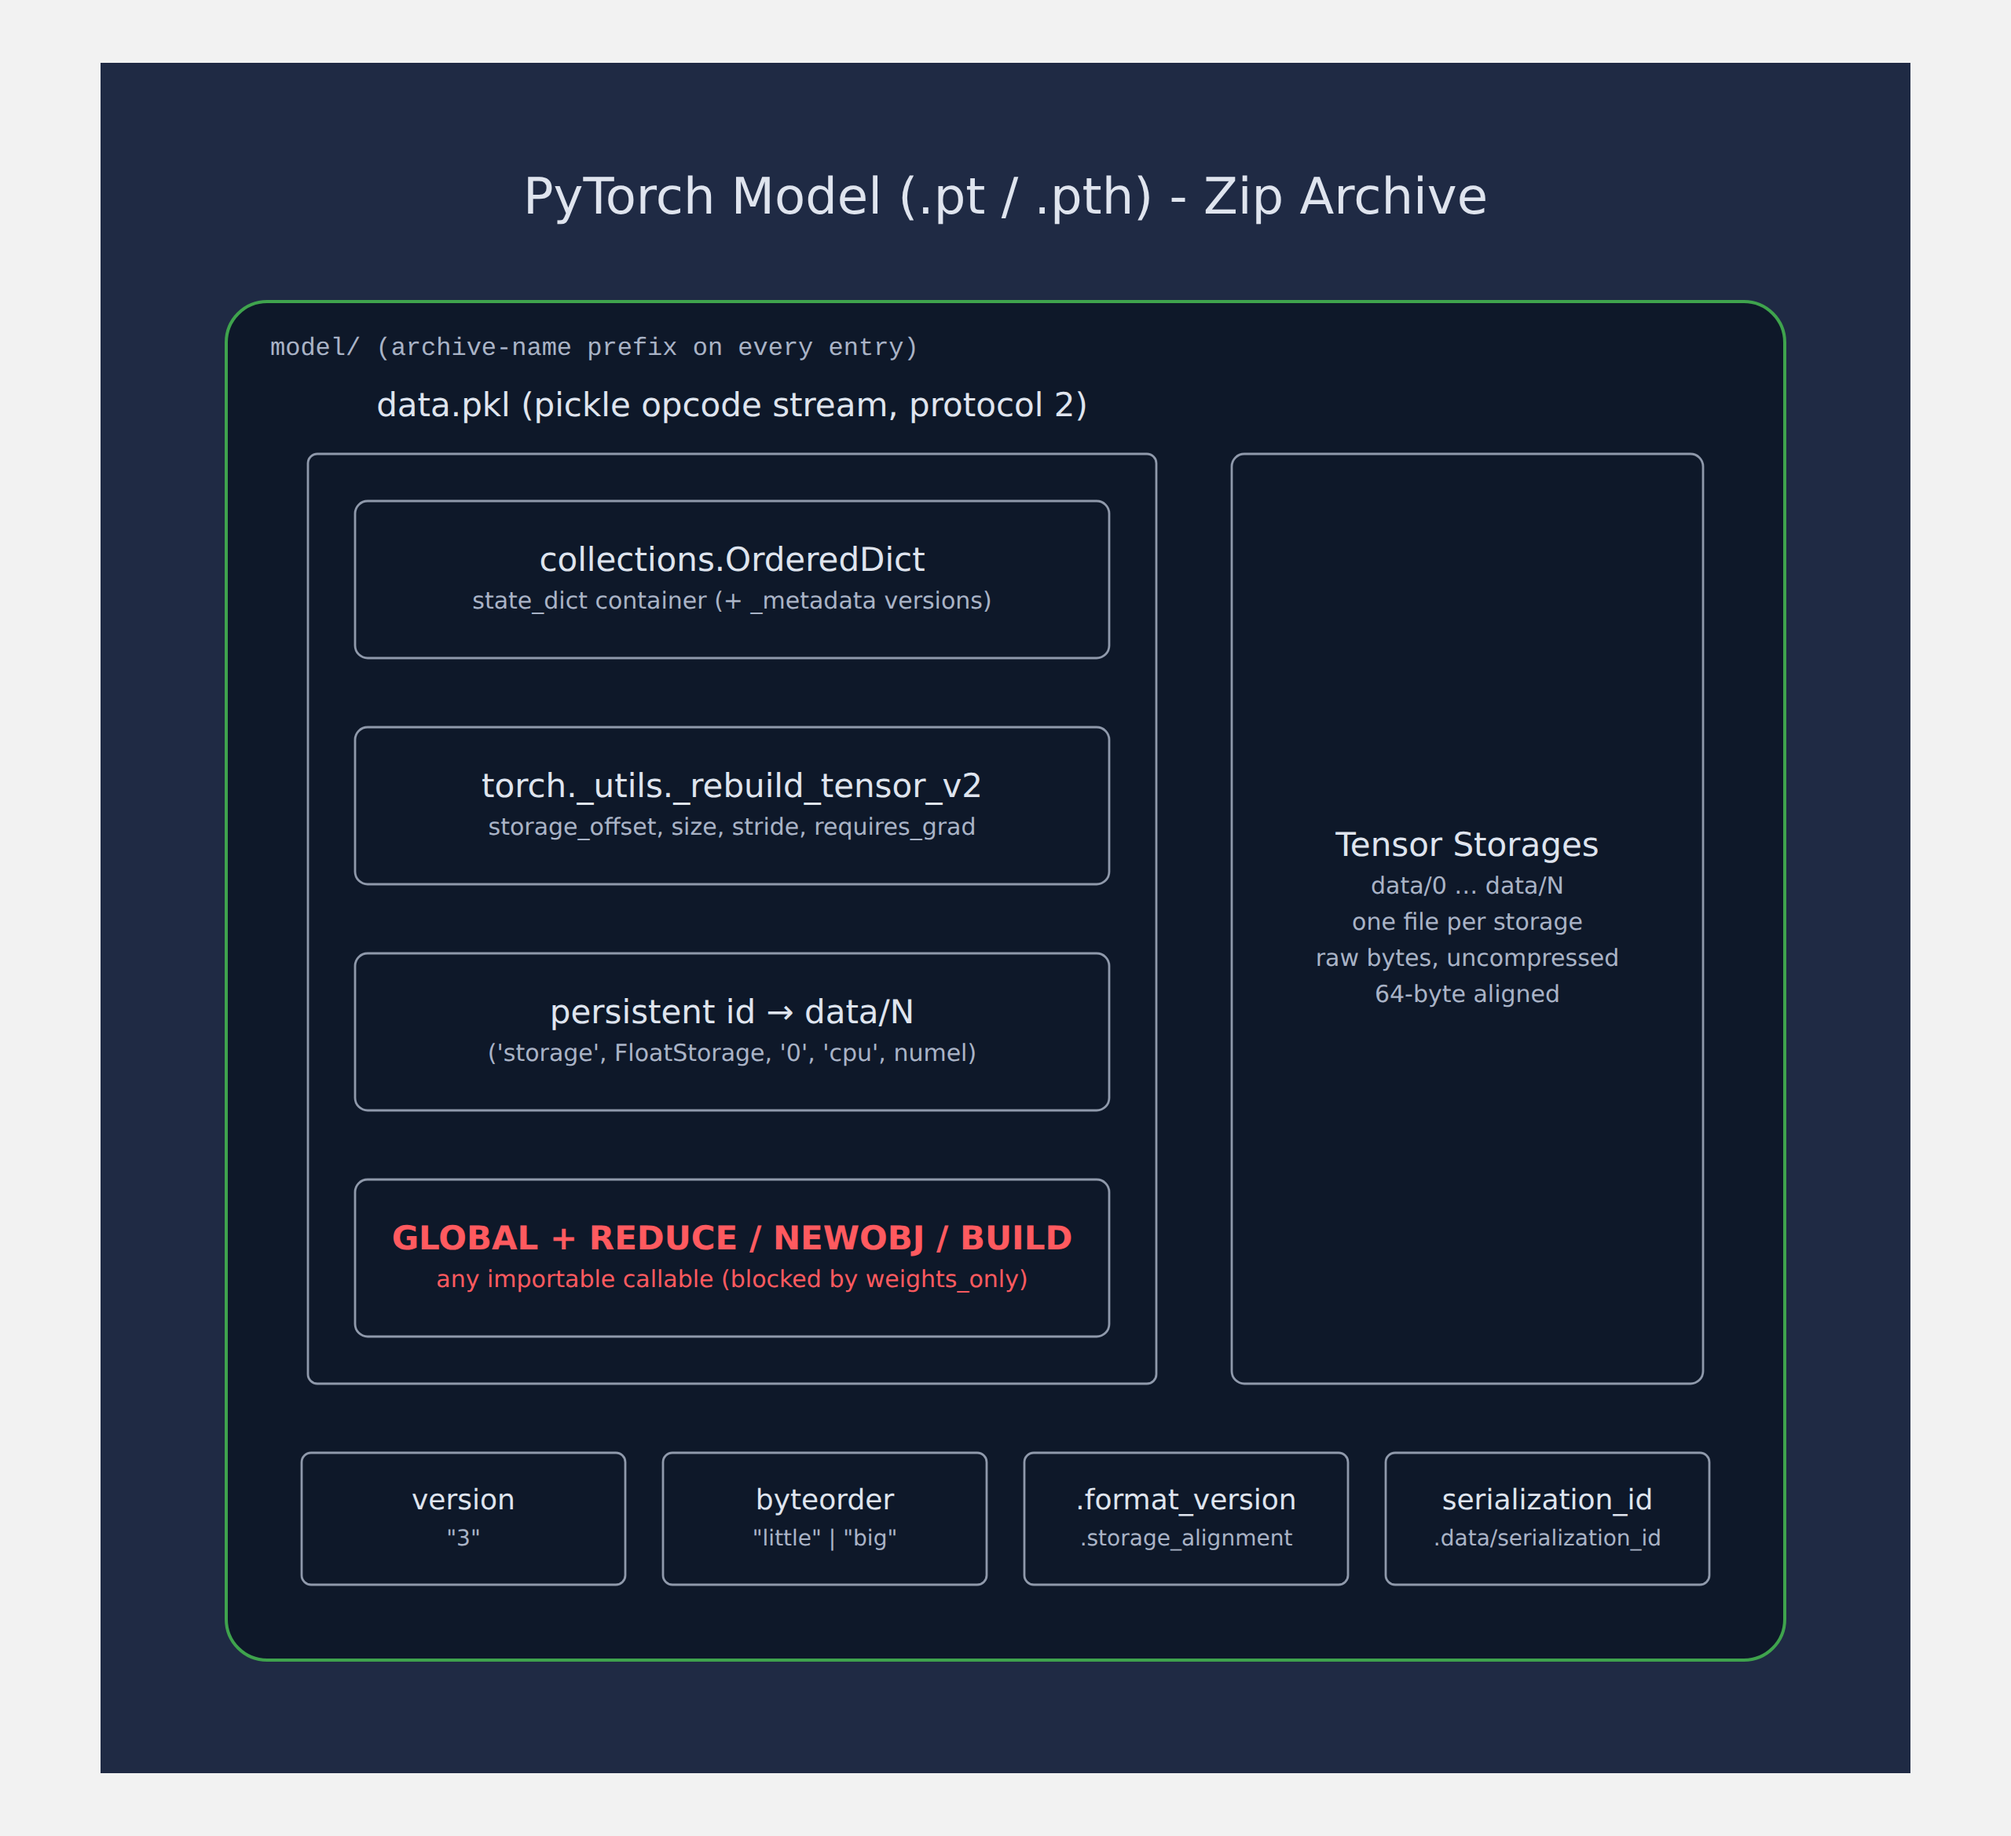
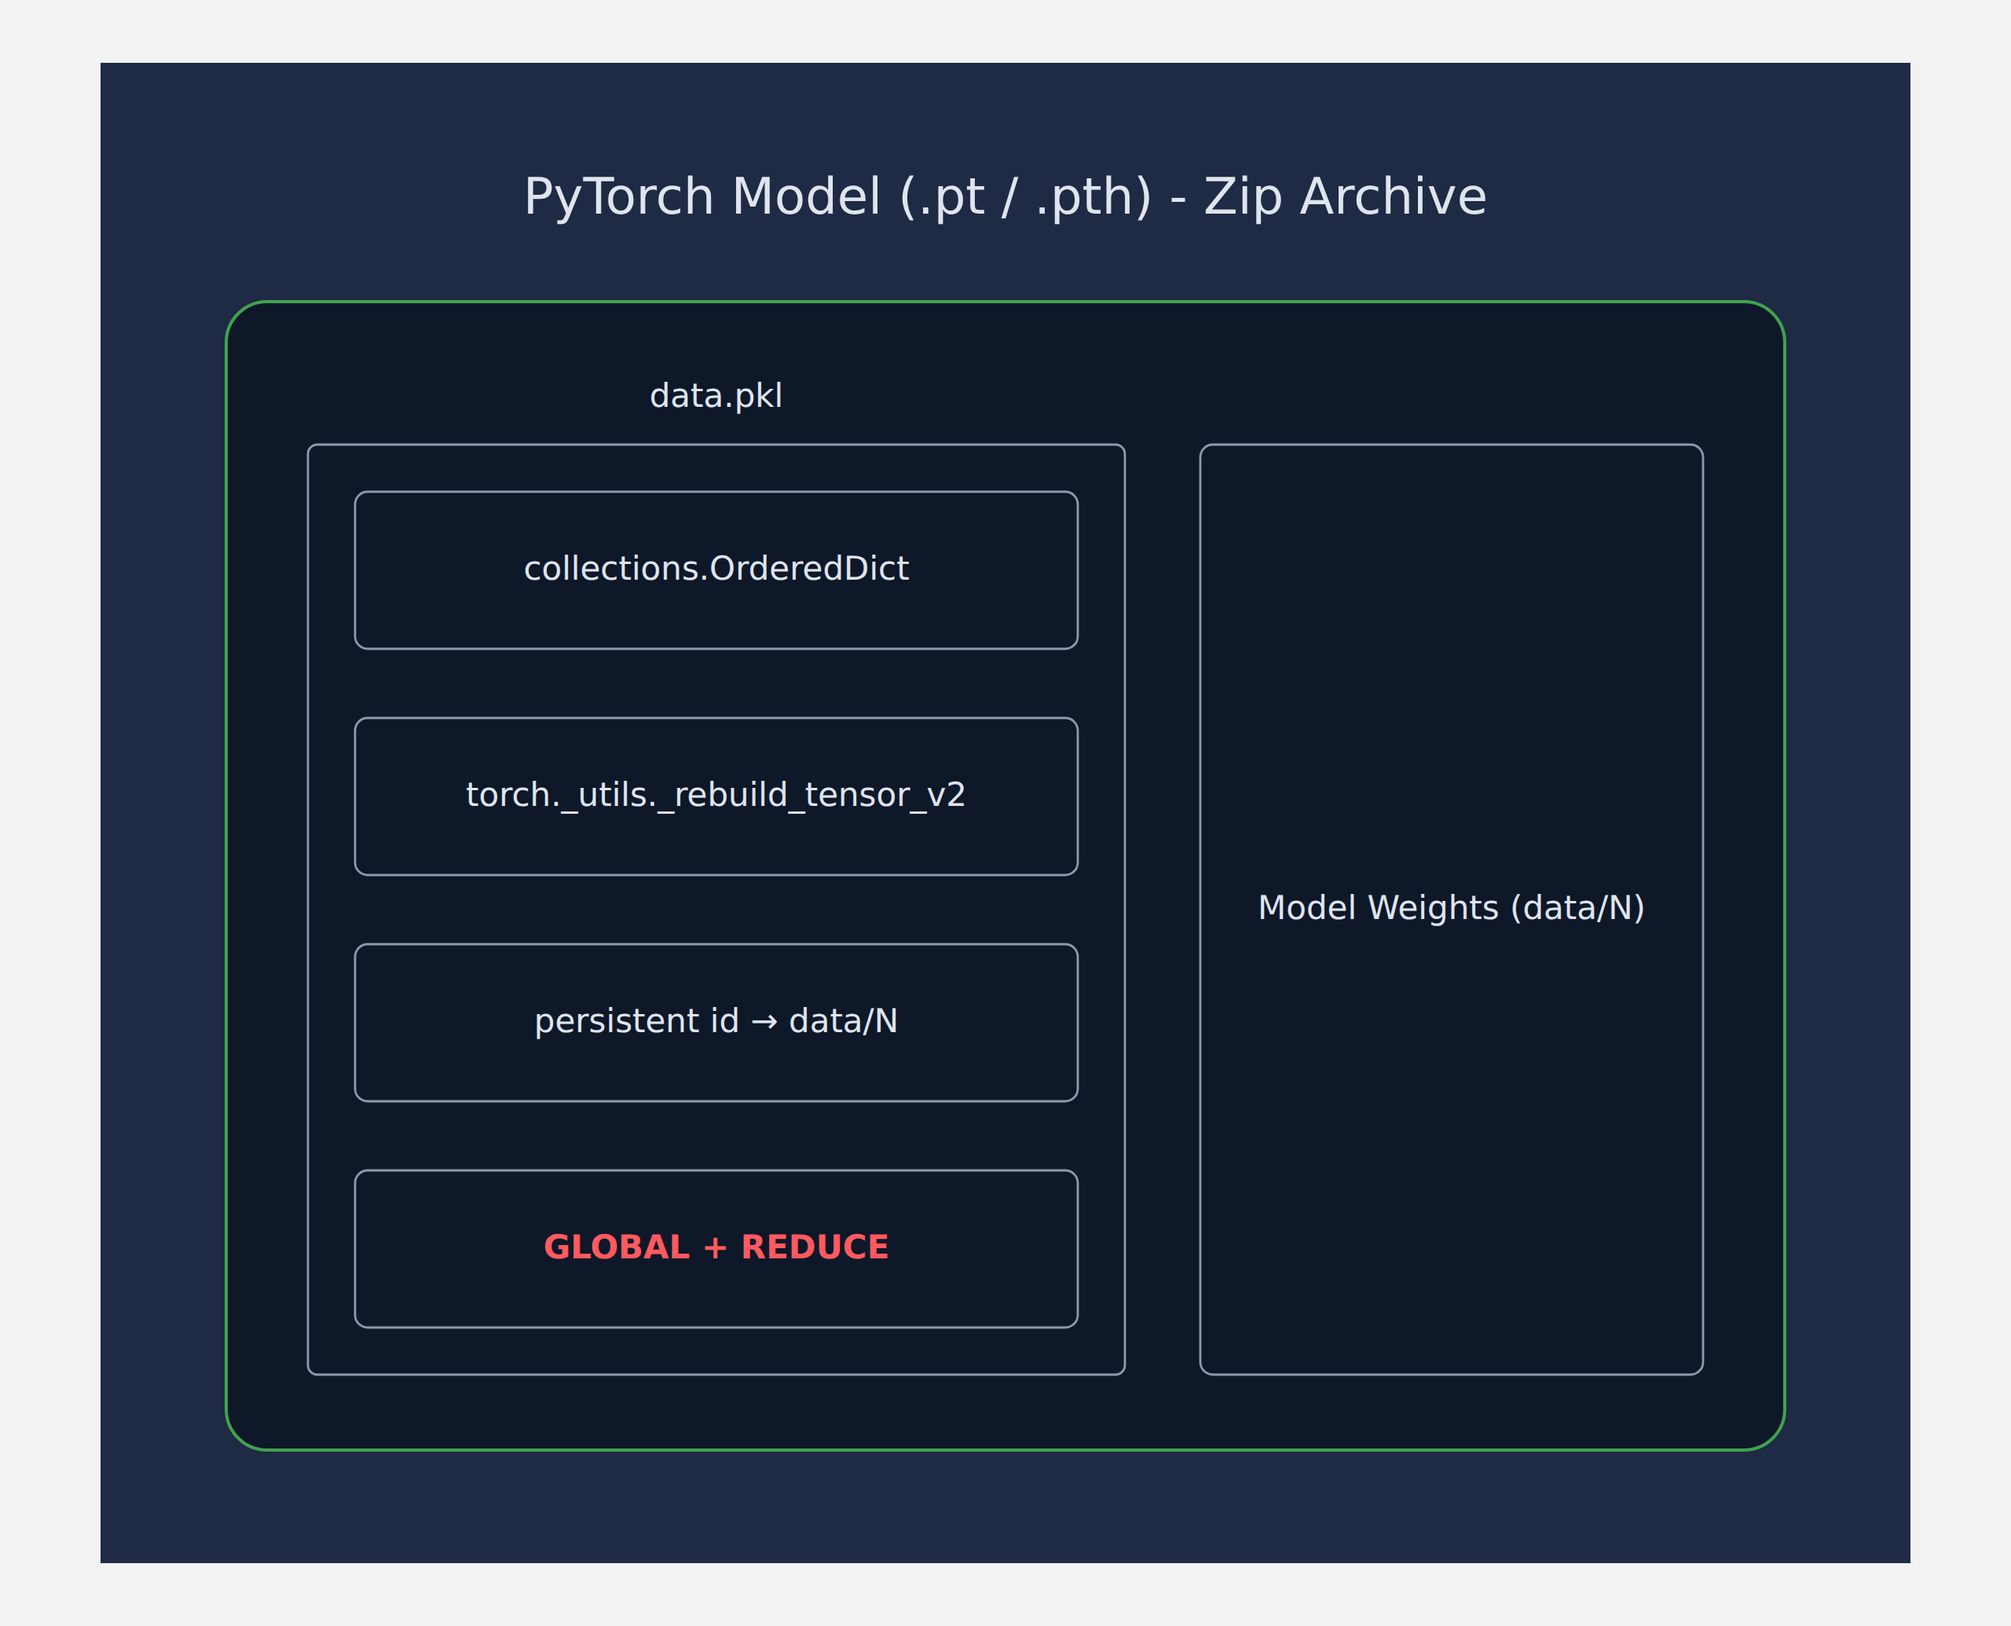
Strip all captions from the PyTorch structure figure
Match the reference image: single-line names in the boxes, bare
`data.pkl` section label, `Model Weights (data/N)` for the weights half,
no container label, no footer row, no caption. The generator now sizes
footer boxes by their text so future figures that use a footer fit; the
conventions in CLAUDE.md say to leave it off.

Claude-Session: https://claude.ai/code/session_01NsYCovn9KFopvGi66fNP7t

diff --git a/tools/structure_figure.py b/tools/structure_figure.py
@@ -23,7 +23,7 @@ Spec format (see pytorch/figures/pytorch_structure.json for a full example):
          ]},
         {"width": 320, "boxes": [{"lines": ["Tensor storages", "data/0 ... data/N"]}]}
       ],                                                    # a column without label = one box stretched
-      "footer": [ {"lines": ["version", "3"]}, ... ]        # optional row of small boxes
+      "footer": [ {"lines": ["version"]}, ... ]             # optional row of small boxes, widths follow the text
     }
 
 Only the standard library is used. Text width is estimated (SVG has no
@@ -62,6 +62,7 @@ MAIN_FS = 21
 SUB_FS = 15
 FOOTER_MAIN_FS = 18
 FOOTER_SUB_FS = 14
+FOOTER_TEXT_PAD = 12  # side padding inside a footer box
 LABEL_FS = 21
 TITLE_FS = 32
 CAPTION_FS = 26
@@ -187,9 +188,19 @@ def render(spec):
     if footer:
         y += 44
         n = len(footer)
-        fw = (inner_w - FOOTER_GAP * (n - 1)) / n
+        # Width each box needs for its own text, then scale so the row spans the inner width.
+        natural = [
+            max(est_width(line, FOOTER_MAIN_FS if i == 0 else FOOTER_SUB_FS) for i, line in enumerate(b["lines"]))
+            + 2 * FOOTER_TEXT_PAD
+            for b in footer
+        ]
+        avail = inner_w - FOOTER_GAP * (n - 1)
+        scale = avail / sum(natural)
+        if scale < 1:
+            print(f"warning: footer needs {sum(natural):.0f}px but only {avail:.0f}px available", file=sys.stderr)
+        widths = [w * scale for w in natural]
         fx = cont_x + CONTAINER_PAD
-        for b in footer:
+        for b, fw in zip(footer, widths):
             parts.append(box(fx, y, fw, FOOTER_H, b["lines"], b.get("danger", False), rx=6,
                              main_fs=FOOTER_MAIN_FS, sub_fs=FOOTER_SUB_FS))
             fx += fw + FOOTER_GAP

diff --git a/CLAUDE.md b/CLAUDE.md
@@ -56,9 +56,10 @@ Two figures per framework.
 - Unnumbered result nodes between steps (`Create each Tensor`, `Complete state_dict`), optionally with an `e.g.:` list of three or four items.
 - About nine steps. The only extra the PyTorch figure carries relative to the Keras example is the `weights_only` branch, because the safety switch is the point of these deep dives.
 
-**Figure 2: model-structure figure (SVG via `tools/structure_figure.py`).** Reference style is the Keras v3 figure the repo owner provided: dark navy panel, title inside the panel, one rounded container with a green border, gray-bordered boxes inside, red text for the component that can execute code (Keras: the Lambda layer; PyTorch: the pickle `GLOBAL + REDUCE / NEWOBJ / BUILD` box).
+**Figure 2: model-structure figure (SVG via `tools/structure_figure.py`).** Reference style is the Keras v3 figure the repo owner provided, and the owner wants it matched closely: dark navy panel, title inside the panel, one rounded container with a green border, gray-bordered boxes with a single short name each, red text for the component that can execute code (Keras: the Lambda layer; PyTorch: the pickle `GLOBAL + REDUCE` box), and nothing else.
 - Spec lives in `<framework>/figures/<framework>_structure.json`; keep the SVG committed next to it and a 2x PNG for viewers without SVG support.
-- Layout: labelled column = a section box with stacked boxes (the "metadata / program" half); unlabelled column = one tall box (the "weights" half); optional footer row of small boxes for bookkeeping records; optional `container_label` (monospace, top-left) for a path prefix; `caption` is supported but off by default (the PyTorch figure has none, by request).
+- Layout: labelled column = a section box with stacked single-line boxes (the "metadata / program" half, label is the bare file name such as `data.pkl`); unlabelled column = one tall box (the "weights" half, named like the example: `Model Weights (data/N)`).
+- Names only. No captions of any kind: no second line inside a box, no `container_label`, no footer row of bookkeeping records, no `caption` under the panel. The generator still supports all of these, but the owner asked for every caption to be removed from the PyTorch figure to match the example image; bookkeeping records belong in the README's record table instead.
 - The generator prints a warning when text is likely to overflow a box: shorten the text or widen the column rather than ignoring it, and always look at the rendered PNG once.
 - Commands:
   `python tools/structure_figure.py <fw>/figures/<fw>_structure.json -o <fw>/figures/<fw>_structure.svg`
